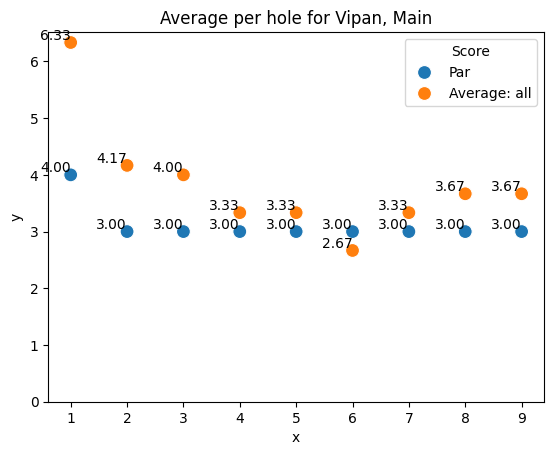
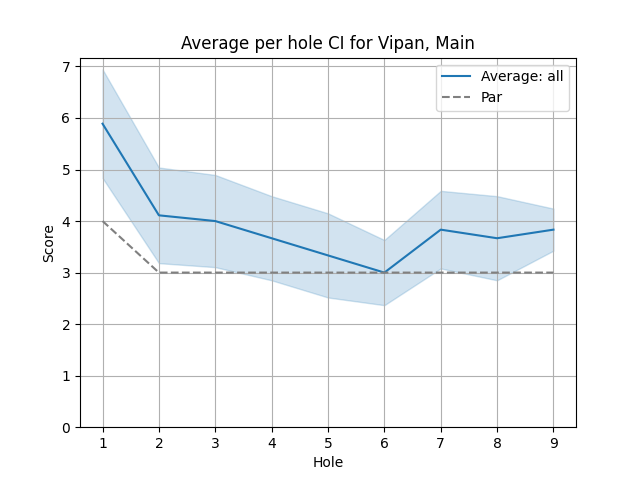
Change to lineplot with standard deviation

diff --git a/average_plot.py b/average_plot.py
@@ -39,7 +39,7 @@ def load_player_rounds_from_csv(file_path):
             round_rating = float(row['RoundRating']) if row['RoundRating'] else None
 
             number_of_holes = len(row) - 8 # There are 8 feilds before holes
-            holes = [int(row[f'Hole{i}']) for i in range(1, number_of_holes+1)]
+            holes = [int(row[f'Hole{i}']) if int(row[f'Hole{i}']) != 0 else None for i in range(1, number_of_holes+1)]
 
             round_instance = PlayerRound(
                 player_name, course_name, layout_name, start_date, end_date,
@@ -68,39 +68,31 @@ def graph_average(rounds, course_name, layout_name, player_name='all'):
             continue
         if player_name != 'all' and round.player_name != player_name:
             continue
-        lines.append(round.holes)
+        for i, score in enumerate(round.holes):
+            if score is not None:
+                lines.append({
+                    "Hole": i + 1,
+                    "Score": score,
+                    "Player": round.player_name
+                })
 
-    average_line = []
-    for hole in range(len(par_line)):
-        sum_for_hole = 0
-        nbr_lines = 0
-        for line in lines:
-            if line[hole] != 0:
-                sum_for_hole += line[hole]
-                nbr_lines += 1
-        
-        if sum_for_hole == 0:
-            average_line.append(0)
-        else:
-            average_line.append(sum_for_hole/nbr_lines)
+    if not par_line:
+        print("Par line not found")
+        return
 
-    # Convert to a DataFrame with a "Score" label:
-    df = pd.DataFrame({
-        "x": [i + 1 for i in range(len(par_line))] * 2,
-        "y": par_line + average_line,
-        "Score": ["Par"] * len(par_line) + [f"Average: {player_name}"] * len(average_line)
-    })
+    # Create dataframe from player scores
+    df = pd.DataFrame(lines)
 
-    # Plot points only (scatter plot)
-    sns.scatterplot(data=df, x="x", y="y", hue="Score", s=100)  # s=100 makes points bigger
+    # Plot average and standard deviation using seaborn lineplot
+    sns.lineplot(data=df, x="Hole", y="Score", ci="sd", estimator="mean", label=f"Average: {player_name}")
 
-    # Add labels to each point
-    for _, row in df.iterrows():
-        plt.text(row["x"], row["y"], f'{row["y"]:.2f}', 
-             fontsize=10, ha='right', va='bottom')
+    # Overlay Par line
+    plt.plot(range(1, len(par_line) + 1), par_line, label="Par", linestyle="--", color="gray")
 
     plt.ylim(bottom=0)
-    plt.title(f"Average per hole for {course_name}, {layout_name}")
+    plt.title(f"Average per hole CI for {course_name}, {layout_name}")
+    plt.legend()
+    plt.grid(True)
     plt.show()
 
 def main(args):
